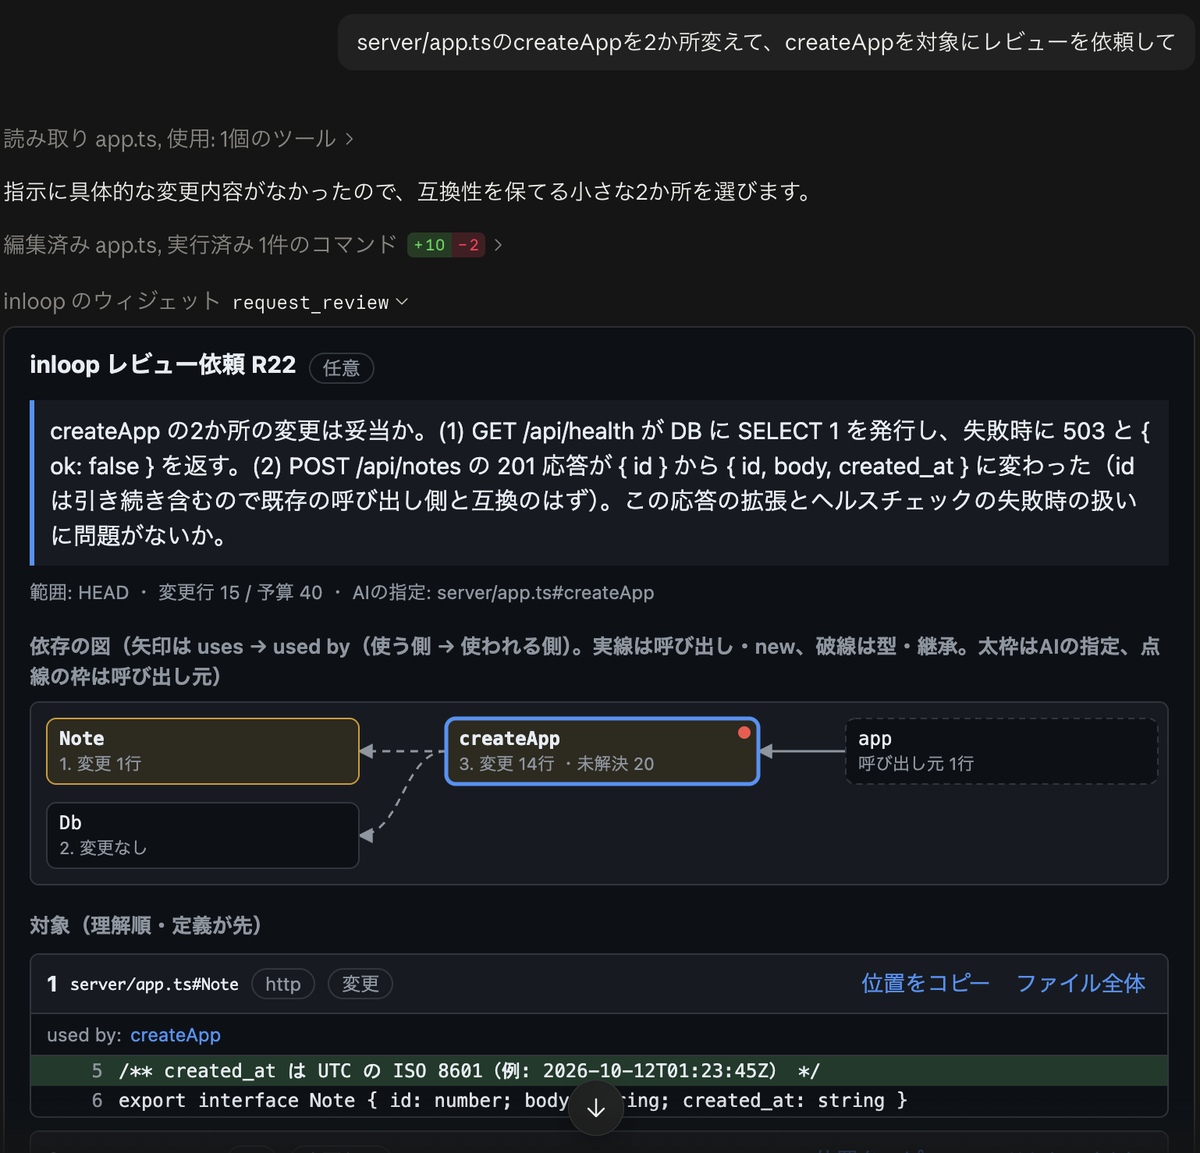
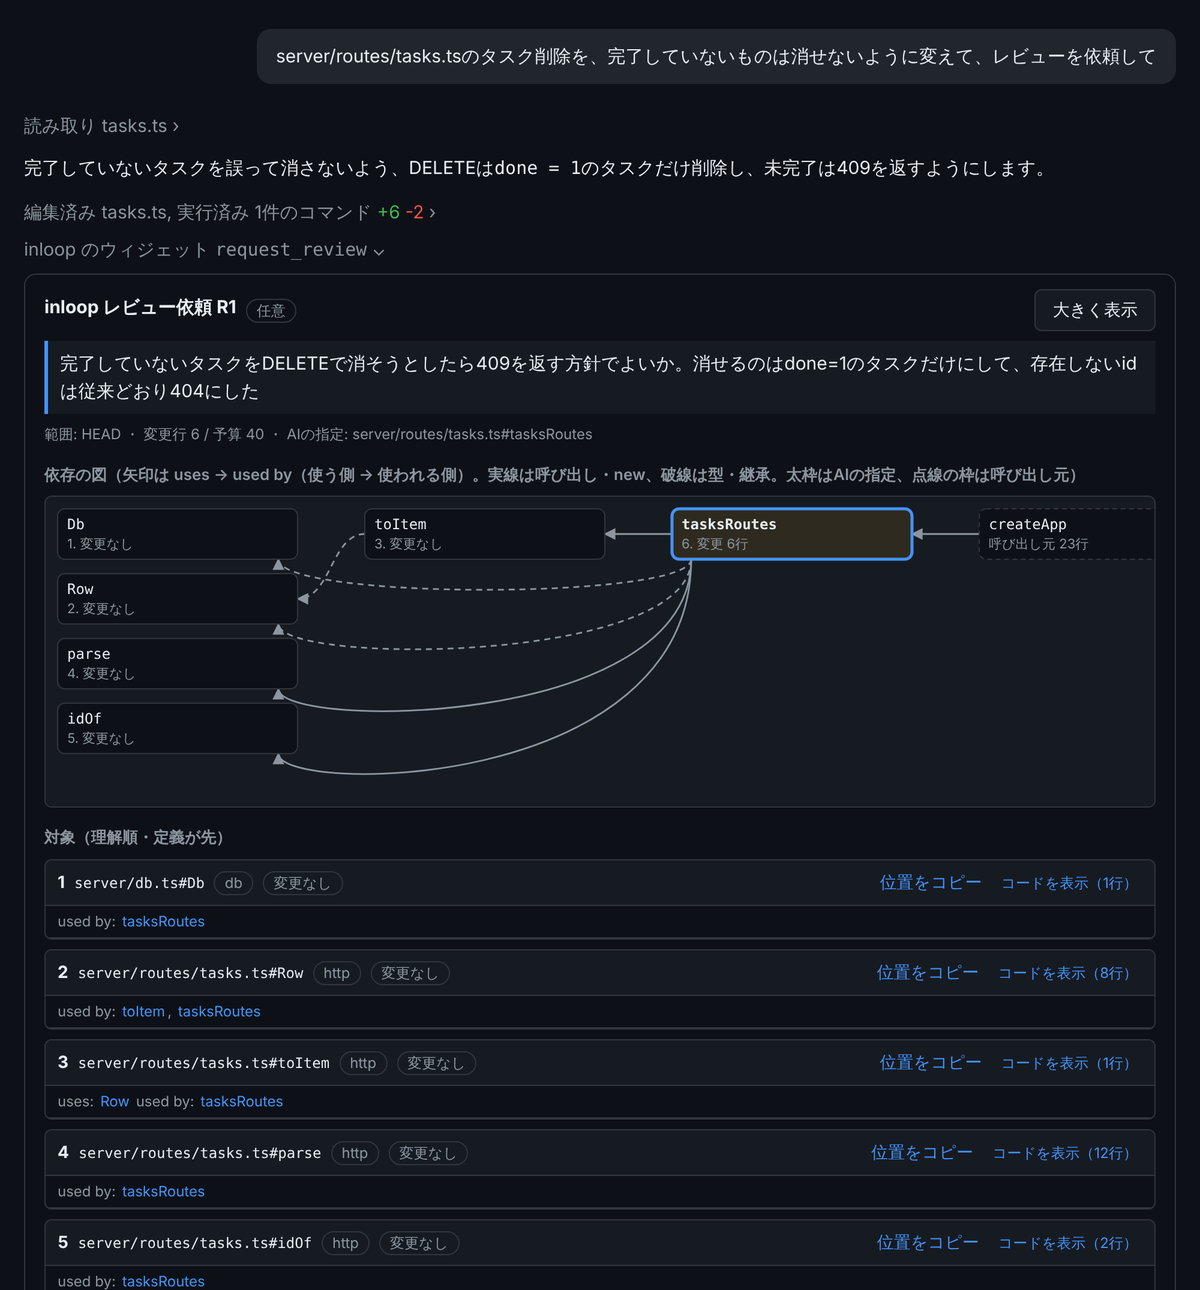
ギャラリーのClaude Code内の画面を、実際の依頼票による実用的な例に差し替える
Claude-Session: https://claude.ai/code/session_01Y9jmLYM4oGyZGK2Wbodsv1

diff --git a/maintainer-guide/screenshots.md b/maintainer-guide/screenshots.md
@@ -4,4 +4,4 @@
 
 - **レビュー依頼の画面（`review-light.png`・`review-dark.png`）**: `INLOOP_UI_E2E=1 INLOOP_SHOT_DIR=<フォルダ> npm test`を動かすと、テストが実ブラウザで画面を開き、写真を`<フォルダ>`に保存します（Playwrightが要ります）。固定データの画面です。`graph-fixture.png`をライト、`review-dark.png`をダークとして使っています。
 - **scaffoldの画面（`scaffold-*.png`）**: `inloop new`でアプリを作り、`inloop generate scaffold`で表を足して、`npm run dev`の画面をブラウザで撮ります（ライト、ダーク、狭い画面）。
-- **Claude Codeの会話内の画面（`claude-code-review-widget*.png`）**: 実際のClaude Code（デスクトップ）で、アプリを開いて変更を頼み、AIに`request_review`を呼ばせた画面を撮ります。自動では撮れません。幅1200pxに縮めています。
+- **Claude Codeの会話内の画面（`claude-code-review-widget*.png`）**: 実際のClaude Codeの画面ではなく、実際のエンジンの依頼票を、会話風の枠（`test/harness/host.mjs`と同じ方法でレビューUIを埋め込み、上に依頼文とAIの返答を並べたHTML）に入れてPlaywrightで撮ったものです。`inloop new`と`inloop generate scaffold`でアプリを作ってcommitし、`server/routes/tasks.ts`のDELETEに「`done = 1`のタスクだけ削除、未完了は409」の変更を足して（`tasks-demo`相当）、`range: "HEAD"`で`request_review`を呼びます。実際の画面は、Claude Code（デスクトップ）でアプリを開いて変更を頼み、AIに依頼させて撮ります。幅1200pxに縮めます。
